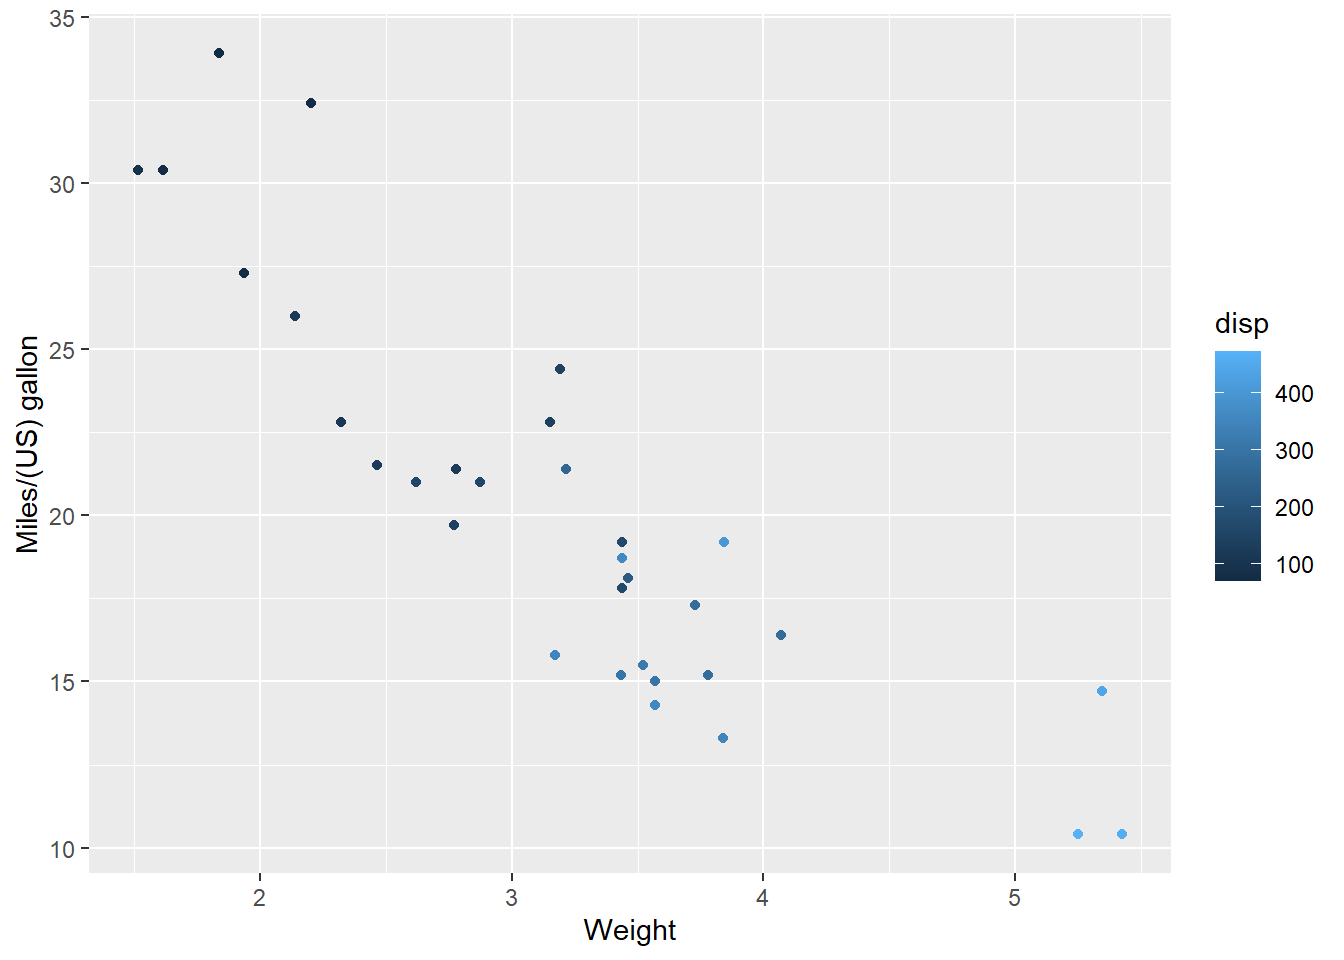
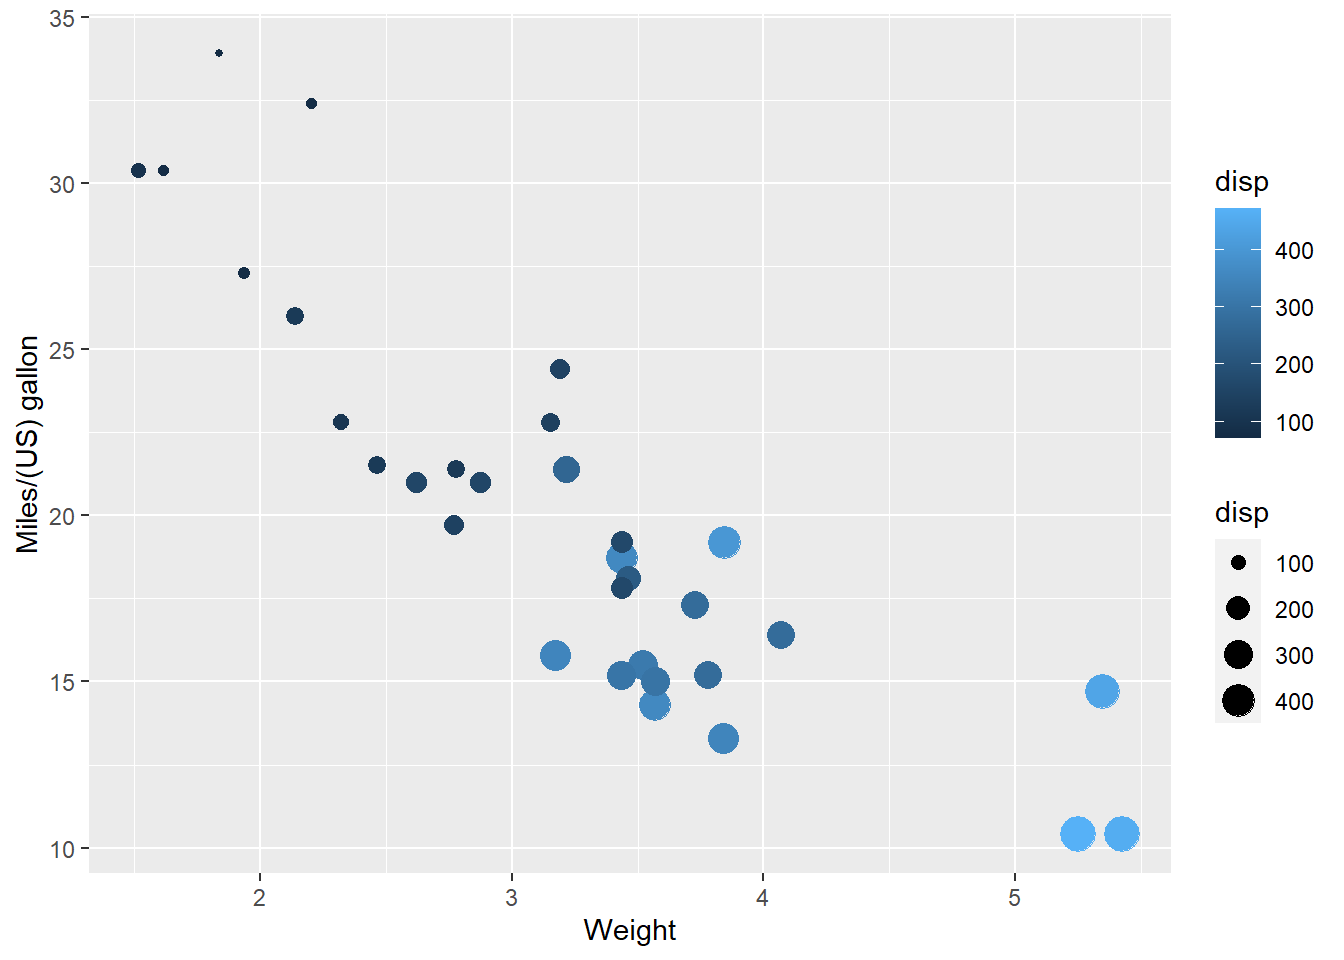
agregando una página de regresión lineal múltiple + regresión logística

diff --git a/graficando.html b/graficando.html
@@ -284,9 +284,16 @@ $(document).ready(function () {
 </li>
 <li>
   <a href="graficando.html">
-    <span class="fa fa-line-chart"></span>
+    <span class="fa fa-bar-chart"></span>
      
     Graficando
+  </a>
+</li>
+<li>
+  <a href="regresion_muliple_logit.html">
+    <span class="fa fa-line-chart"></span>
+     
+    RLM + Logit
   </a>
 </li>
 <li>
@@ -317,42 +324,53 @@ $(document).ready(function () {
 <h1>Scatter plots</h1>
 <div id="con-tres-3-variables-cuantitivas" class="section level2">
 <h2>Con tres (3) variables cuantitivas</h2>
+<p>Agregaremos una linea de ajuste usando el modelo lineal general + los respectibos intervalos de confianza de las bandas.</p>
 <pre class="r"><code>library(ggplot2)
 ggplot(mtcars, aes(wt, mpg, color = disp)) + 
   geom_point() + 
+  geom_smooth(method = &#39;lm&#39;)+
   labs(x = &#39;Weight&#39;, y= &#39;Miles/(US) gallon&#39;)</code></pre>
+<pre><code>## `geom_smooth()` using formula &#39;y ~ x&#39;</code></pre>
 <p><img src="graficando_files/figure-html/scatter_plots_3_var_cuanti-1.png" width="672" /></p>
+<p>¿La relación entre x e y es igual entre los distintos sujetos en estudio? ¿qué sucede al tomar en cuenta otra varible, por ejemplo, cualitativa?<br />
+Veamos</p>
+<pre class="r"><code>ggplot(diamonds, aes(carat, price, color = clarity)) +
+  geom_point(alpha = 0.3) + 
+  geom_smooth()</code></pre>
+<pre><code>## `geom_smooth()` using method = &#39;gam&#39; and formula &#39;y ~ s(x, bs = &quot;cs&quot;)&#39;</code></pre>
+<p><img src="graficando_files/figure-html/unnamed-chunk-1-1.png" width="672" /></p>
 </div>
-<div id="con-dos-2-variables-cuantitativas-y-una-cualitativa" class="section level2">
-<h2>Con dos (2) variables cuantitativas y una cualitativa</h2>
-<pre class="r"><code>library(ggplot2)
-ggplot(mtcars, aes(wt, mpg, color = disp)) + 
+<div id="graficando-cuatro-4-variables-en-un-mismo-plot" class="section level2">
+<h2>Graficando cuatro (4) variables en un mismo plot</h2>
+<p>Se puede controlar el tamaño del punto ploteado, el color y el relleno de acuerdo a los valores que tomen ciertas variables</p>
+<pre class="r"><code>ggplot(mtcars, aes(wt, mpg, size = disp, color = disp)) + 
   geom_point() + 
   labs(x = &#39;Weight&#39;, y= &#39;Miles/(US) gallon&#39;)</code></pre>
-<p><img src="graficando_files/figure-html/scatter_plots_2_cuanti_1_cuali-1.png" width="672" /> En ocasiones cuando una o las dos variables a graficar son categóricas,podemos presenciar overplotting, causando que dimensionemos claramente el fenómeno estudiado. Para resolver lo anterior, podemos introducir un pequeño ruido en la representación de los puntos y aplicar un alpha (valor que regula la transparencia de los markers) y así lograr ver mejor la relación entre las variables.</p>
+<p><img src="graficando_files/figure-html/scatter_plots_2_cuanti_1_cuali-1.png" width="672" /></p>
+<p>En ocasiones cuando una o las dos variables a graficar son categóricas,podemos presenciar overplotting, causando que no dimensionemos claramente el fenómeno estudiado. Para resolver lo anterior, podemos introducir un pequeño ruido en la representación de los puntos y aplicar un alpha (valor que regula la transparencia de los markers) y así lograr ver mejor la relación entre las variables.</p>
 <p>Veamos sin jitter ni alpha</p>
 <pre class="r"><code>ggplot (mtcars, 
-        aes(as.factor(cyl), mpg),color = as.factor(am)) + 
+        aes((cyl), mpg),color = as.factor(am)) + 
   geom_point()</code></pre>
-<p><img src="graficando_files/figure-html/unnamed-chunk-1-1.png" width="672" /></p>
+<p><img src="graficando_files/figure-html/unnamed-chunk-2-1.png" width="672" /> Notemos que aunque <code>cyl</code> es una variable discreta, R le da un tratamiento continuo y por eso vemos espacios entre 4 y 5 o 6 y 8, lo cual no tiene sentido. Reparemos esto, además de agregar jitter y opacidad a los puntos.</p>
 <p>Con jitter y alpha = 0.2</p>
 <pre class="r"><code>ggplot (mtcars,aes(as.factor(cyl), mpg),color = as.factor(am)) + 
   geom_point(alpha = 0.2,position = position_jitter(width = 0.1))</code></pre>
-<p><img src="graficando_files/figure-html/unnamed-chunk-2-1.png" width="672" /></p>
-<p>Podemos usar una variable cuantitativa como size y así enriquecer nuestro gráfico</p>
-<pre class="r"><code>ggplot(mtcars, aes(wt,mpg, size = disp)) +
-  geom_point(alpha= 0.5)</code></pre>
 <p><img src="graficando_files/figure-html/unnamed-chunk-3-1.png" width="672" /></p>
-<p>Podemos cambiar la forma que toman cada valor ploteado e incluso hacer que según cierta variable, cambie el shape</p>
+<p>Podemos usar una variable cuantitativa como size y así enriquecer nuestro gráfico, además que la forma cambie de acuerdo al valor de una variable (discreta)</p>
+<pre class="r"><code>ggplot(mtcars, aes(wt,mpg, size = disp, shape = factor(cyl))) +
+  geom_point(alpha= 0.5)</code></pre>
+<p><img src="graficando_files/figure-html/unnamed-chunk-4-1.png" width="672" /></p>
 <p>#Gráficos de barras</p>
 </div>
 <div id="apilados-con-paleta-de-colores-definida" class="section level2">
 <h2>Apilados con paleta de colores definida</h2>
-<pre class="r"><code>#palette &lt;- c()
+<pre class="r"><code>palette &lt;- c(automatic = &#39;#357EB8&#39;, manual = &#39;#E41A1C&#39;)
 ggplot(mtcars, aes(as.factor(cyl), fill = as.factor(am))) + 
   geom_bar() + 
-  labs(x= &#39;Number of cylinders&#39;)</code></pre>
-<p><img src="graficando_files/figure-html/unnamed-chunk-4-1.png" width="672" /></p>
+  labs(x= &#39;Number of cylinders&#39;) +
+scale_fill_manual(&quot;Transmission&quot;, values = palette)</code></pre>
+<p><img src="graficando_files/figure-html/unnamed-chunk-5-1.png" width="672" /></p>
 </div>
 </div>
 

diff --git a/regresion_muliple_logit.html b/regresion_muliple_logit.html
@@ -11,7 +11,7 @@
 
 
 
-<title>My Website</title>
+<title>Regresión lineal</title>
 
 <script src="site_libs/jquery-1.11.3/jquery.min.js"></script>
 <meta name="viewport" content="width=device-width, initial-scale=1" />
@@ -315,12 +315,32 @@ $(document).ready(function () {
 
 
 
-<h1 class="title toc-ignore">My Website</h1>
+<h1 class="title toc-ignore">Regresión lineal</h1>
+<h3 class="subtitle">Múltiple y logística</h3>
 
 </div>
 
 
-<p>Hello, Website!</p>
+<p><strong><em>Caso: Restaurantes italianos en NYC</em></strong></p>
+<p>Usaremos un dataset que contiene los reviews hechos por <a href="https://www.zagat.com/about-us" target="_blank">Zagat</a> (en 2001) a 168 restauranres italianos en New York.</p>
+<p>Cada restaurante recibe una puntuación del 0 al 30 por la calidad de su comida, la decoración y el servicio recibido.<br />
+El dataset incluye el valor del precio medio (USD) de un plato (incluye una bebida y la propina)</p>
+<p>Responderemos a la interrogante: <em>¿qué factores contribuyen al precio medio de un plato en un restaurante italiano en NYC?</em></p>
+<p><strong>Manos a la obra</strong></p>
+<p>¿cómo está estructurado el dataset?</p>
+<pre class="r"><code>glimpse(nyc)</code></pre>
+<pre><code>## Rows: 168
+## Columns: 7
+## $ Case       &lt;int&gt; 1, 2, 3, 4, 5, 6, 7, 8, 9, 10, 11, 12, 13, 14, 15, 16, 1...
+## $ Restaurant &lt;chr&gt; &quot;Daniella Ristorante&quot;, &quot;Tello&#39;s Ristorante&quot;, &quot;Biricchino...
+## $ Price      &lt;int&gt; 43, 32, 34, 41, 54, 52, 34, 34, 39, 44, 45, 47, 52, 35, ...
+## $ Food       &lt;int&gt; 22, 20, 21, 20, 24, 22, 22, 20, 22, 21, 19, 21, 21, 19, ...
+## $ Decor      &lt;int&gt; 18, 19, 13, 20, 19, 22, 16, 18, 19, 17, 17, 19, 19, 17, ...
+## $ Service    &lt;int&gt; 20, 19, 18, 17, 21, 21, 21, 21, 22, 19, 20, 21, 20, 19, ...
+## $ East       &lt;int&gt; 0, 0, 0, 0, 0, 0, 0, 1, 1, 1, 1, 1, 1, 1, 1, 1, 1, 1, 1,...</code></pre>
+<p>Tenemos :<br />
+- ´names(nyc)´ asas<br />
+- asas</p>
 
 <p>Copyright &copy; 2020 Raúl Galíndez, Inc. All rights reserved.</p>
 

diff --git a/about.html b/about.html
@@ -284,9 +284,16 @@ $(document).ready(function () {
 </li>
 <li>
   <a href="graficando.html">
-    <span class="fa fa-line-chart"></span>
+    <span class="fa fa-bar-chart"></span>
      
     Graficando
+  </a>
+</li>
+<li>
+  <a href="regresion_muliple_logit.html">
+    <span class="fa fa-line-chart"></span>
+     
+    RLM + Logit
   </a>
 </li>
 <li>
